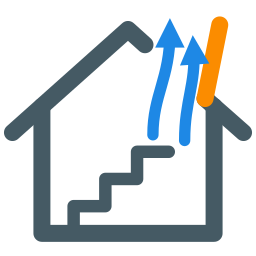
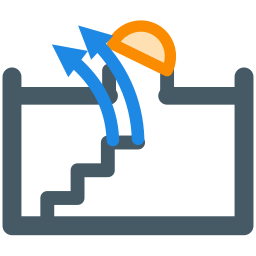
Toit plat et coupole : carte graphique et icône (v0.3.1)
La scène de la carte et l'icône représentent maintenant un immeuble à
toit plat (acrotères) avec une coupole sur costière, relevée par un vérin
autour d'une charnière latérale.

Claude-Session: https://claude.ai/code/session_01NWzDZb3eUXsT12bFPqEKAE

diff --git a/custom_components/ventilation_desenfumage/frontend/ventilation-desenfumage-card.js b/custom_components/ventilation_desenfumage/frontend/ventilation-desenfumage-card.js
@@ -9,7 +9,7 @@
  * sont lues dans l'attribut « entites » du capteur de décision.
  */
 
-const CARD_VERSION = "0.3.0";
+const CARD_VERSION = "0.3.1";
 
 const LEVEL_COLORS = {
   alarme: "var(--error-color, #db4437)",
@@ -32,10 +32,12 @@ const SHORT_LABEL = {
 const SEASON_LABEL = { froid: "Froid", normal: "Normal", canicule: "Canicule" };
 const SEASON_ICON = { froid: "mdi:snowflake", normal: "mdi:weather-partly-cloudy", canicule: "mdi:white-balance-sunny" };
 
-// Géométrie de la scène (viewBox 400 x 240)
-const HINGE = { x: 252, y: 70 }; // charnière haute de l'ouvrant
-const SASH_LEN = 66;
-const ROOF_ANGLE = Math.atan2(85, 170); // pente du toit (rad)
+// Géométrie de la scène (viewBox 400 x 240) : toit plat, coupole sur costière
+const ROOF_Y = 136; // dessus de la dalle
+const DOME_L = 172; // bord gauche de la costière
+const DOME_R = 248; // bord droit = charnière de la coupole
+const DOME_Y = 116; // haut de la costière (appui de la coupole)
+const DOME_H = 26; // hauteur de la coupole
 
 function num(st) {
   if (!st || ["unknown", "unavailable", ""].includes(st.state)) return null;
@@ -171,10 +173,11 @@ class VentilationDesenfumageCard extends HTMLElement {
       if (!isNaN(d)) ovText = d.toLocaleTimeString([], { hour: "2-digit", minute: "2-digit" });
     }
 
-    // --- Ouvrant (rotation autour de la charnière, vers le haut)
-    const rad = ROOF_ANGLE - (angle * Math.PI) / 180;
-    const sashEnd = { x: HINGE.x + SASH_LEN * Math.cos(rad), y: HINGE.y + SASH_LEN * Math.sin(rad) };
-    const gapEnd = { x: HINGE.x + SASH_LEN * Math.cos(ROOF_ANGLE), y: HINGE.y + SASH_LEN * Math.sin(ROOF_ANGLE) };
+    // --- Coupole : rotation autour de la charnière droite, le côté gauche se soulève
+    const rad = (angle * Math.PI) / 180;
+    const arm = 0.55 * (DOME_R - DOME_L); // point d'attache du vérin sur le cadre
+    const jackTop = { x: DOME_R - arm * Math.cos(rad), y: DOME_Y - arm * Math.sin(rad) };
+    const domeW = DOME_R - DOME_L;
 
     const pipeline = trace
       .map((t) => {
@@ -202,7 +205,7 @@ class VentilationDesenfumageCard extends HTMLElement {
               <stop offset="0" stop-color="${night ? "#1b2440" : "#9fd3f5"}"/>
               <stop offset="1" stop-color="${night ? "#2e3b63" : "#dff1fc"}"/>
             </linearGradient>
-            <clipPath id="inside"><path d="M64 112 L200 44 L336 112 L336 240 L64 240 Z"/></clipPath>
+            <clipPath id="inside"><rect x="56" y="146" width="288" height="94"/></clipPath>
           </defs>
 
           <rect x="0" y="0" width="400" height="240" fill="url(#sky)" opacity="0.55"/>
@@ -217,33 +220,36 @@ class VentilationDesenfumageCard extends HTMLElement {
           ${raining ? `<g class="rain">${[20, 60, 100, 140, 300, 340, 380, 170, 240].map((x, i) =>
             `<line x1="${x}" y1="${-10 - (i % 3) * 25}" x2="${x - 6}" y2="${4 - (i % 3) * 25}" style="animation-delay:${(i * 0.17).toFixed(2)}s"/>`).join("")}</g>` : ""}
 
-          <!-- intérieur -->
-          <path d="M64 112 L200 44 L336 112 L336 240 L64 240 Z" class="inside"/>
+          <!-- intérieur (dernier étage) -->
+          <rect x="50" y="146" width="300" height="94" class="inside"/>
           <g clip-path="url(#inside)">
-            <polyline class="stairs" points="90,240 90,214 132,214 132,188 174,188 174,162 216,162 216,136 250,136"/>
+            <polyline class="stairs" points="66,240 66,218 100,218 100,194 134,194 134,170 ${DOME_L + 4},170 ${DOME_L + 4},150"/>
           </g>
 
-          <!-- toit (interrompu au droit de l'ouvrant) et murs -->
-          <polyline class="roof" points="30,129 200,44 ${HINGE.x},${HINGE.y}"/>
-          <polyline class="roof" points="${gapEnd.x.toFixed(1)},${gapEnd.y.toFixed(1)} 370,129"/>
-          <polyline class="wall" points="64,112 64,240"/>
-          <polyline class="wall" points="336,112 336,240"/>
+          <!-- dalle (trémie sous la coupole), acrotères et murs -->
+          <polyline class="roof" points="40,${ROOF_Y + 5} ${DOME_L},${ROOF_Y + 5}"/>
+          <polyline class="roof" points="${DOME_R},${ROOF_Y + 5} 360,${ROOF_Y + 5}"/>
+          <polyline class="wall" points="44,${ROOF_Y - 12} 44,240"/>
+          <polyline class="wall" points="356,${ROOF_Y - 12} 356,240"/>
+          <!-- costière -->
+          <polyline class="curb" points="${DOME_L + 3},${ROOF_Y + 9} ${DOME_L + 3},${DOME_Y}"/>
+          <polyline class="curb" points="${DOME_R - 3},${ROOF_Y + 9} ${DOME_R - 3},${DOME_Y}"/>
 
-          <!-- cadre de l'ouverture -->
-          <line class="frame" x1="${HINGE.x}" y1="${HINGE.y}" x2="${gapEnd.x.toFixed(1)}" y2="${gapEnd.y.toFixed(1)}"/>
           <!-- vérin -->
-          <line class="jack" x1="${(HINGE.x + gapEnd.x) / 2 - 4}" y1="${(HINGE.y + gapEnd.y) / 2 + 22}"
-                x2="${(HINGE.x * 0.4 + sashEnd.x * 0.6).toFixed(1)}" y2="${(HINGE.y * 0.4 + sashEnd.y * 0.6).toFixed(1)}"/>
+          <line class="jack" x1="${DOME_L + 10}" y1="${ROOF_Y + 2}" x2="${jackTop.x.toFixed(1)}" y2="${jackTop.y.toFixed(1)}"/>
 
-          <!-- ouvrant -->
-          <line class="sash ${doorKnown ? "" : "unknown"}" style="stroke:${isOpen ? "#fb8c00" : "var(--secondary-text-color,#727272)"}"
-                x1="${HINGE.x}" y1="${HINGE.y}" x2="${sashEnd.x.toFixed(1)}" y2="${sashEnd.y.toFixed(1)}"/>
-          <circle cx="${HINGE.x}" cy="${HINGE.y}" r="4" class="hinge"/>
+          <!-- coupole -->
+          <g class="dome ${isOpen ? "open" : ""} ${doorKnown ? "" : "unknown"}" transform="rotate(${angle} ${DOME_R} ${DOME_Y})">
+            <path d="M${DOME_L} ${DOME_Y} A${domeW / 2} ${DOME_H} 0 0 1 ${DOME_R} ${DOME_Y} Z"/>
+            <line x1="${DOME_L - 2}" y1="${DOME_Y}" x2="${DOME_R + 2}" y2="${DOME_Y}" class="rim"/>
+            <path d="M${DOME_L + 16} ${DOME_Y - 8} Q${DOME_L + 24} ${DOME_Y - DOME_H + 4} ${DOME_L + 40} ${DOME_Y - DOME_H + 2}" class="shine"/>
+          </g>
+          <circle cx="${DOME_R}" cy="${DOME_Y}" r="3.5" class="hinge"/>
 
           ${isOpen ? `<g class="air">
-              <path d="M262 190 C262 150 278 120 286 40"/>
-              <path d="M290 196 C290 156 300 126 312 52"/>
-              <path d="M236 184 C240 146 258 116 262 30"/>
+              <path d="M196 214 C196 170 196 140 170 40"/>
+              <path d="M218 220 C218 176 214 146 196 54"/>
+              <path d="M176 206 C176 170 172 140 146 66"/>
             </g>` : ""}
 
           <!-- étiquettes -->
@@ -255,15 +261,15 @@ class VentilationDesenfumageCard extends HTMLElement {
           </g>
 
           <g class="lbl" data-mi="indoor_temp">
-            <rect x="96" y="96" width="76" height="${hIn !== null ? 52 : 38}" rx="6"/>
-            <text x="134" y="109" text-anchor="middle" class="cap">Cage d'escalier</text>
-            <text x="134" y="126" text-anchor="middle" class="big">${fmt(tIn, "°")}</text>
-            ${hIn !== null ? `<text x="134" y="141" text-anchor="middle" class="small">${fmt(hIn, " %", 0)}</text>` : ""}
+            <rect x="262" y="164" width="80" height="${hIn !== null ? 52 : 38}" rx="6"/>
+            <text x="302" y="177" text-anchor="middle" class="cap">Cage d'escalier</text>
+            <text x="302" y="194" text-anchor="middle" class="big">${fmt(tIn, "°")}</text>
+            ${hIn !== null ? `<text x="302" y="209" text-anchor="middle" class="small">${fmt(hIn, " %", 0)}</text>` : ""}
           </g>
 
           <g class="lbl door" data-mi="door">
-            <rect x="${isOpen ? 300 : 286}" y="${isOpen ? 70 : 60}" width="84" height="22" rx="11"/>
-            <text x="${isOpen ? 342 : 328}" y="${isOpen ? 85 : 75}" text-anchor="middle" class="small b">${esc(doorText)}</text>
+            <rect x="262" y="88" width="88" height="22" rx="11"/>
+            <text x="306" y="103" text-anchor="middle" class="small b">${esc(doorText)}</text>
           </g>
 
           ${!isArmed ? `<g class="stamp"><rect x="110" y="6" width="180" height="26" rx="13"/><text x="200" y="24" text-anchor="middle">SYSTÈME DÉSARMÉ</text></g>` : ""}
@@ -310,13 +316,17 @@ const STYLE = `
   .t2 { font-size:13px; color:var(--secondary-text-color); line-height:1.35; }
   .scene { width:100%; height:auto; display:block; margin:10px 0 6px; border-radius:12px; }
   .inside { fill: var(--secondary-background-color, #f2f2f2); }
-  .roof { fill:none; stroke: var(--primary-text-color,#212121); stroke-width:9; stroke-linecap:round; stroke-linejoin:round; opacity:.8; }
-  .wall { fill:none; stroke: var(--primary-text-color,#212121); stroke-width:8; opacity:.8; }
+  .roof { fill:none; stroke: var(--primary-text-color,#212121); stroke-width:10; stroke-linecap:butt; opacity:.8; }
+  .wall { fill:none; stroke: var(--primary-text-color,#212121); stroke-width:10; opacity:.8; }
   .stairs { fill:none; stroke: var(--secondary-text-color,#727272); stroke-width:6; stroke-linejoin:round; opacity:.6; }
-  .sash { stroke-width:9; stroke-linecap:round; transition: all .6s; }
-  .sash.unknown { stroke-dasharray: 6 6; }
+  .curb { fill:none; stroke: var(--primary-text-color,#212121); stroke-width:6; opacity:.8; }
+  .dome path:first-child { fill: rgba(160,205,235,.45); stroke: var(--secondary-text-color,#727272); stroke-width:3; }
+  .dome .rim { stroke: var(--secondary-text-color,#727272); stroke-width:6; stroke-linecap:round; }
+  .dome .shine { fill:none; stroke:#fff; stroke-width:3; stroke-linecap:round; opacity:.7; }
+  .dome.open path:first-child { stroke:#fb8c00; }
+  .dome.open .rim { stroke:#fb8c00; }
+  .dome.unknown path:first-child, .dome.unknown .rim { stroke-dasharray: 5 5; }
   .hinge { fill: var(--primary-text-color,#212121); }
-  .frame { stroke: var(--secondary-text-color,#727272); stroke-width:3; stroke-dasharray:3 4; opacity:.7; }
   .jack { stroke: var(--secondary-text-color,#727272); stroke-width:4; stroke-linecap:round; }
   .air path { fill:none; stroke:#1e88e5; stroke-width:4; stroke-linecap:round; stroke-dasharray: 10 12; animation: flow 1.2s linear infinite; opacity:.85; }
   @keyframes flow { to { stroke-dashoffset:-22; } }
